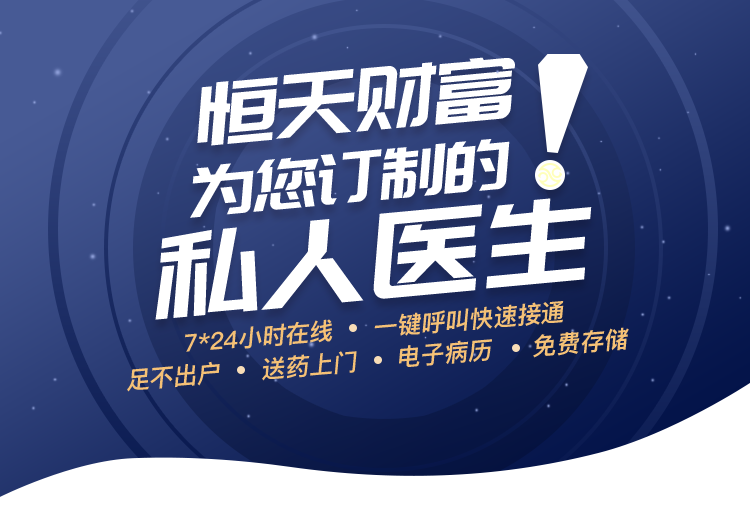
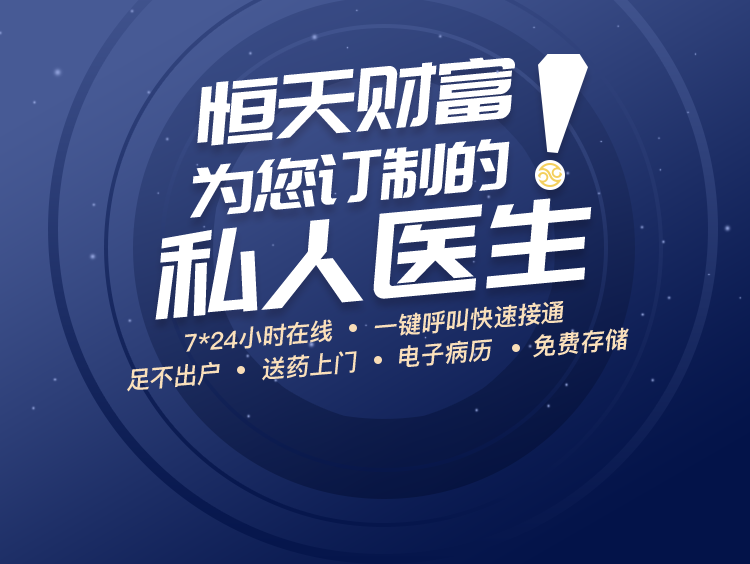
视频医生banner图动态

diff --git a/src/life/static/js/videoDoctor/videoDoctor.js b/src/life/static/js/videoDoctor/videoDoctor.js
@@ -18,6 +18,8 @@ $(function(){
         },
 		//页面初始化函数
 		init:function(){  
+            // 获取banner图地址
+            this.getBanner();
             // 判断客户等级是否满足条件（是否开通和缓服务，是否过期）  
             this.judgeCustomerCondition();
             // 获取医生服务内容
@@ -28,14 +30,40 @@ $(function(){
         	$(".rightBtn").html("查看病例");
         	$(".rightBtn").show();
         },
+        getBanner: function() {
+            var that = this;
+            var obj = [{
+                url: site_url.getArticle_api,
+                data: {
+                    articleBelong: 4,
+                    applyType: 1, //0代表H5
+                },
+                needDataEmpty: true,
+                needLoading: true,
+                callbackDone: function(json) {
+                    var content = json.data.content;
+                    if(content == '') {
+                        $('.bannerCon').html('<img src="/life/static/img/banner@2x.png" alt="">');
+                    } else {
+                        $('.bannerCon').html(content);
+                    }
+                },
+                callbackNoData: function(json) {
+                    $('.bannerCon').html('<img src="/life/static/img/banner@2x.png" alt="">');
+                },
+                callbackFail: function(json) {
+                    $('.bannerCon').html('<img src="/life/static/img/banner@2x.png" alt="">');
+                }
+            }];
+            $.ajaxLoading(obj);
+        },
         getDoctorServiceContent: function() {
             var that = this;
             var obj = [{
                 url: site_url.getArticle_api,
                 data: {
-                    id: 103, 
-                    articleBelong: 15,
-                    applyType: 0, //0代表H5
+                    articleBelong: 5,
+                    applyType: 1, //0代表H5
                 },
                 needDataEmpty: true,
                 needLoading: true,

diff --git a/src/life/static/less/videoDoctor.less b/src/life/static/less/videoDoctor.less
@@ -16,16 +16,17 @@ body {
 
 .doctorTop {
 	position: relative;
-	&>img {
-		width: 100%;
-		height: auto;
-	}
-	&>.noDredgeDesc {
-		font-size: .26rem;
-		line-height: .4rem;
-		text-align: center;
-		.descBlue {
-			color: #0E246C;
+	.bannerWrapper {
+		position: relative;
+		.bannerCon {
+			img {
+				width: 100%;
+			}
+		}
+		&>img {
+			width: 100%;
+			position: absolute;
+			bottom: 0;
 		}
 	}
 	&>.callDoctor {
@@ -35,15 +36,30 @@ body {
 		background: url("/life/static/img/ljhjys@2x.png") no-repeat;
 		background-size: 100% 100%;
 		position: absolute;
-		bottom: -.1rem;
+		bottom: 0;
 		left: 0;
 		right: 0;
+	}	
+}
+
+.noDredgeDesc {
+	font-size: .26rem;
+	line-height: .4rem;
+	text-align: center;
+	.descBlue {
+		color: #0E246C;
 	}
 }
 
 .transverseLineCon {
-	padding: .4rem .3rem .3rem;
+	padding: .4rem .3rem 0;
 	.transverseLine {
 		border-top: 1px solid #E7E9ED;
+	}
+}
+
+.doctorBottom {
+	img {
+		width: 100%;
 	}
 }

diff --git a/src/life/views/videoDoctor/videoDoctor.html b/src/life/views/videoDoctor/videoDoctor.html
@@ -12,12 +12,16 @@
   <!-- @@include('@pathCommonCom/loading/listLoading.html') -->
   @@include('@pathCommonViews/headBarConfig.html',{"bgColors":"#2C3E77,#273971","showType":"0","pathName":"视频医生"}) 
   <div class="doctorTop">
-    <img src="/life/static/img/banner@2x.png" alt="">
-    <div class="noDredgeDesc hide">
-      <div class="descBlue toCustomer"></div> 
-      <div class="descBlue linkFinancialer"></div>
+    <div class="bannerWrapper">
+      <div class="bannerCon"></div>
+      <img src="/life/static/img/wave@2x.png" alt="">
     </div>
     <div class="callDoctor hide"></div>
+  </div>
+
+  <div class="noDredgeDesc hide">
+    <div class="descBlue toCustomer"></div> 
+    <div class="descBlue linkFinancialer"></div>
   </div>
 
   <div class="transverseLineCon">
